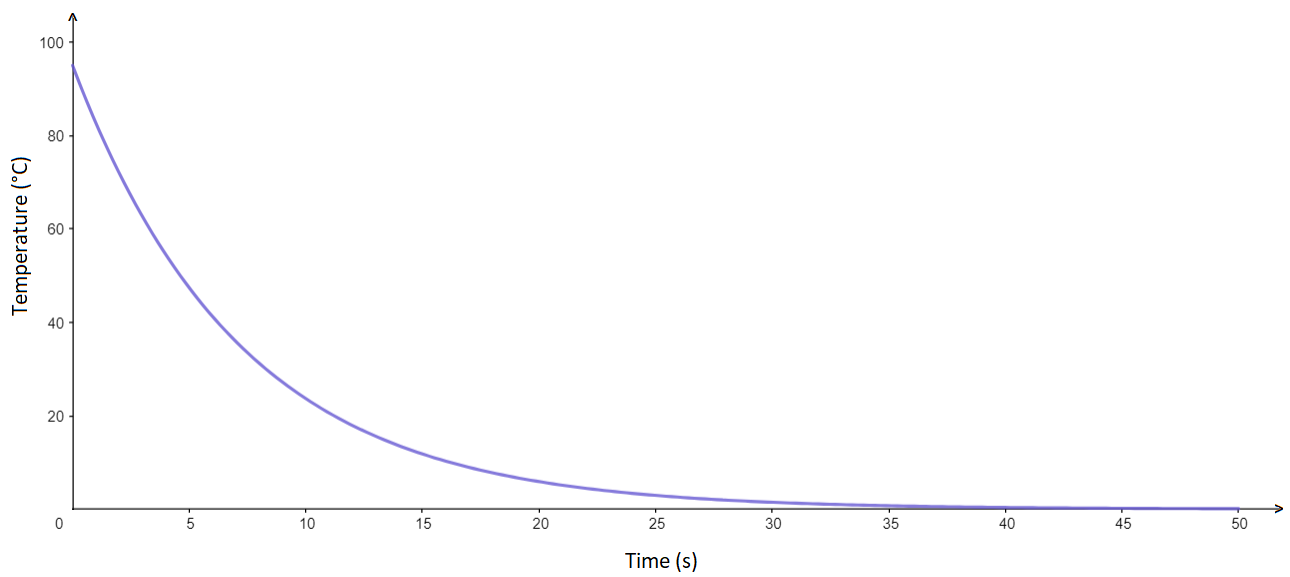
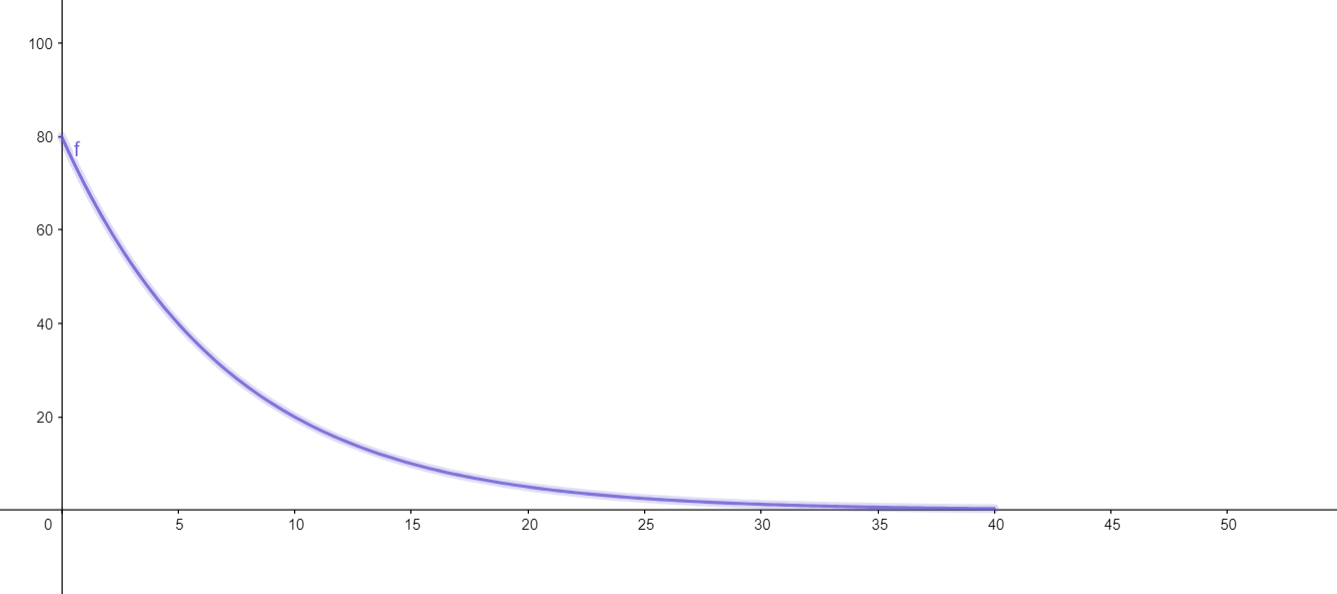
code: tentativa por button

diff --git a/app/main.js b/app/main.js
@@ -1,15 +1,15 @@
 function appForm() {
-  var ti = document.forms["fm1"]["d1"].value;
-  var tf = document.forms["fm1"]["d2"].value;
-  //var cr = document.forms["fm1"]["d3"].value;
-  var x = "foto_2.png";
-  if ((ti = "95") && (tf = "0")) {
-    //var x = "foto_2.png";
+  var ti = document.getElementById("d1").value;
+  var tf = document.getElementById("d2").value;
+  var cr = document.getElementById("d3").value;
+  console.log(ti);
+  if (ti == "95" && tf == "0" && cr == "-0.139") {
+    var x = "foto_1.png";
   } else {
-    if ((ti = "80") && (tf = "0")) {
-      //var return = "url img 2"
+    if (ti == "80" && tf == "0" && cr == "-0.139") {
+      var x = "foto_2.png";
     } else {
-      //var x = "";
+      var x = "erro.png";
     }
   }
   document.getElementById("img").src = x;

diff --git a/app/index.html b/app/index.html
@@ -7,7 +7,6 @@
     <title>Document</title>
   </head>
   <body>
-    <form name="fm1" onsubmit="return appForm()" method="post">
     <div id="dv1">
       <select name="drop1" id="d1">
         <option id="d1_op1">select Ti</option>
@@ -26,13 +25,11 @@
         <option id="d3_op1"> select cooling rate </option>
         <option id="d3_op2">-0.139</option>
       </select>
-      
-      <input type="submit" value="Try">
-    </form>
-    <div id="dv4">
-        <img id="img" src="graf1.png"/>
-      </div>
-      <script src="main.js"></script>
+      <button onclick="appForm()">try</button>
     </div>
+    <div id="dv4">
+      <img id="img" src="default.png" />
+    </div>
+    <script src="main.js"></script>
   </body>
 </html>
